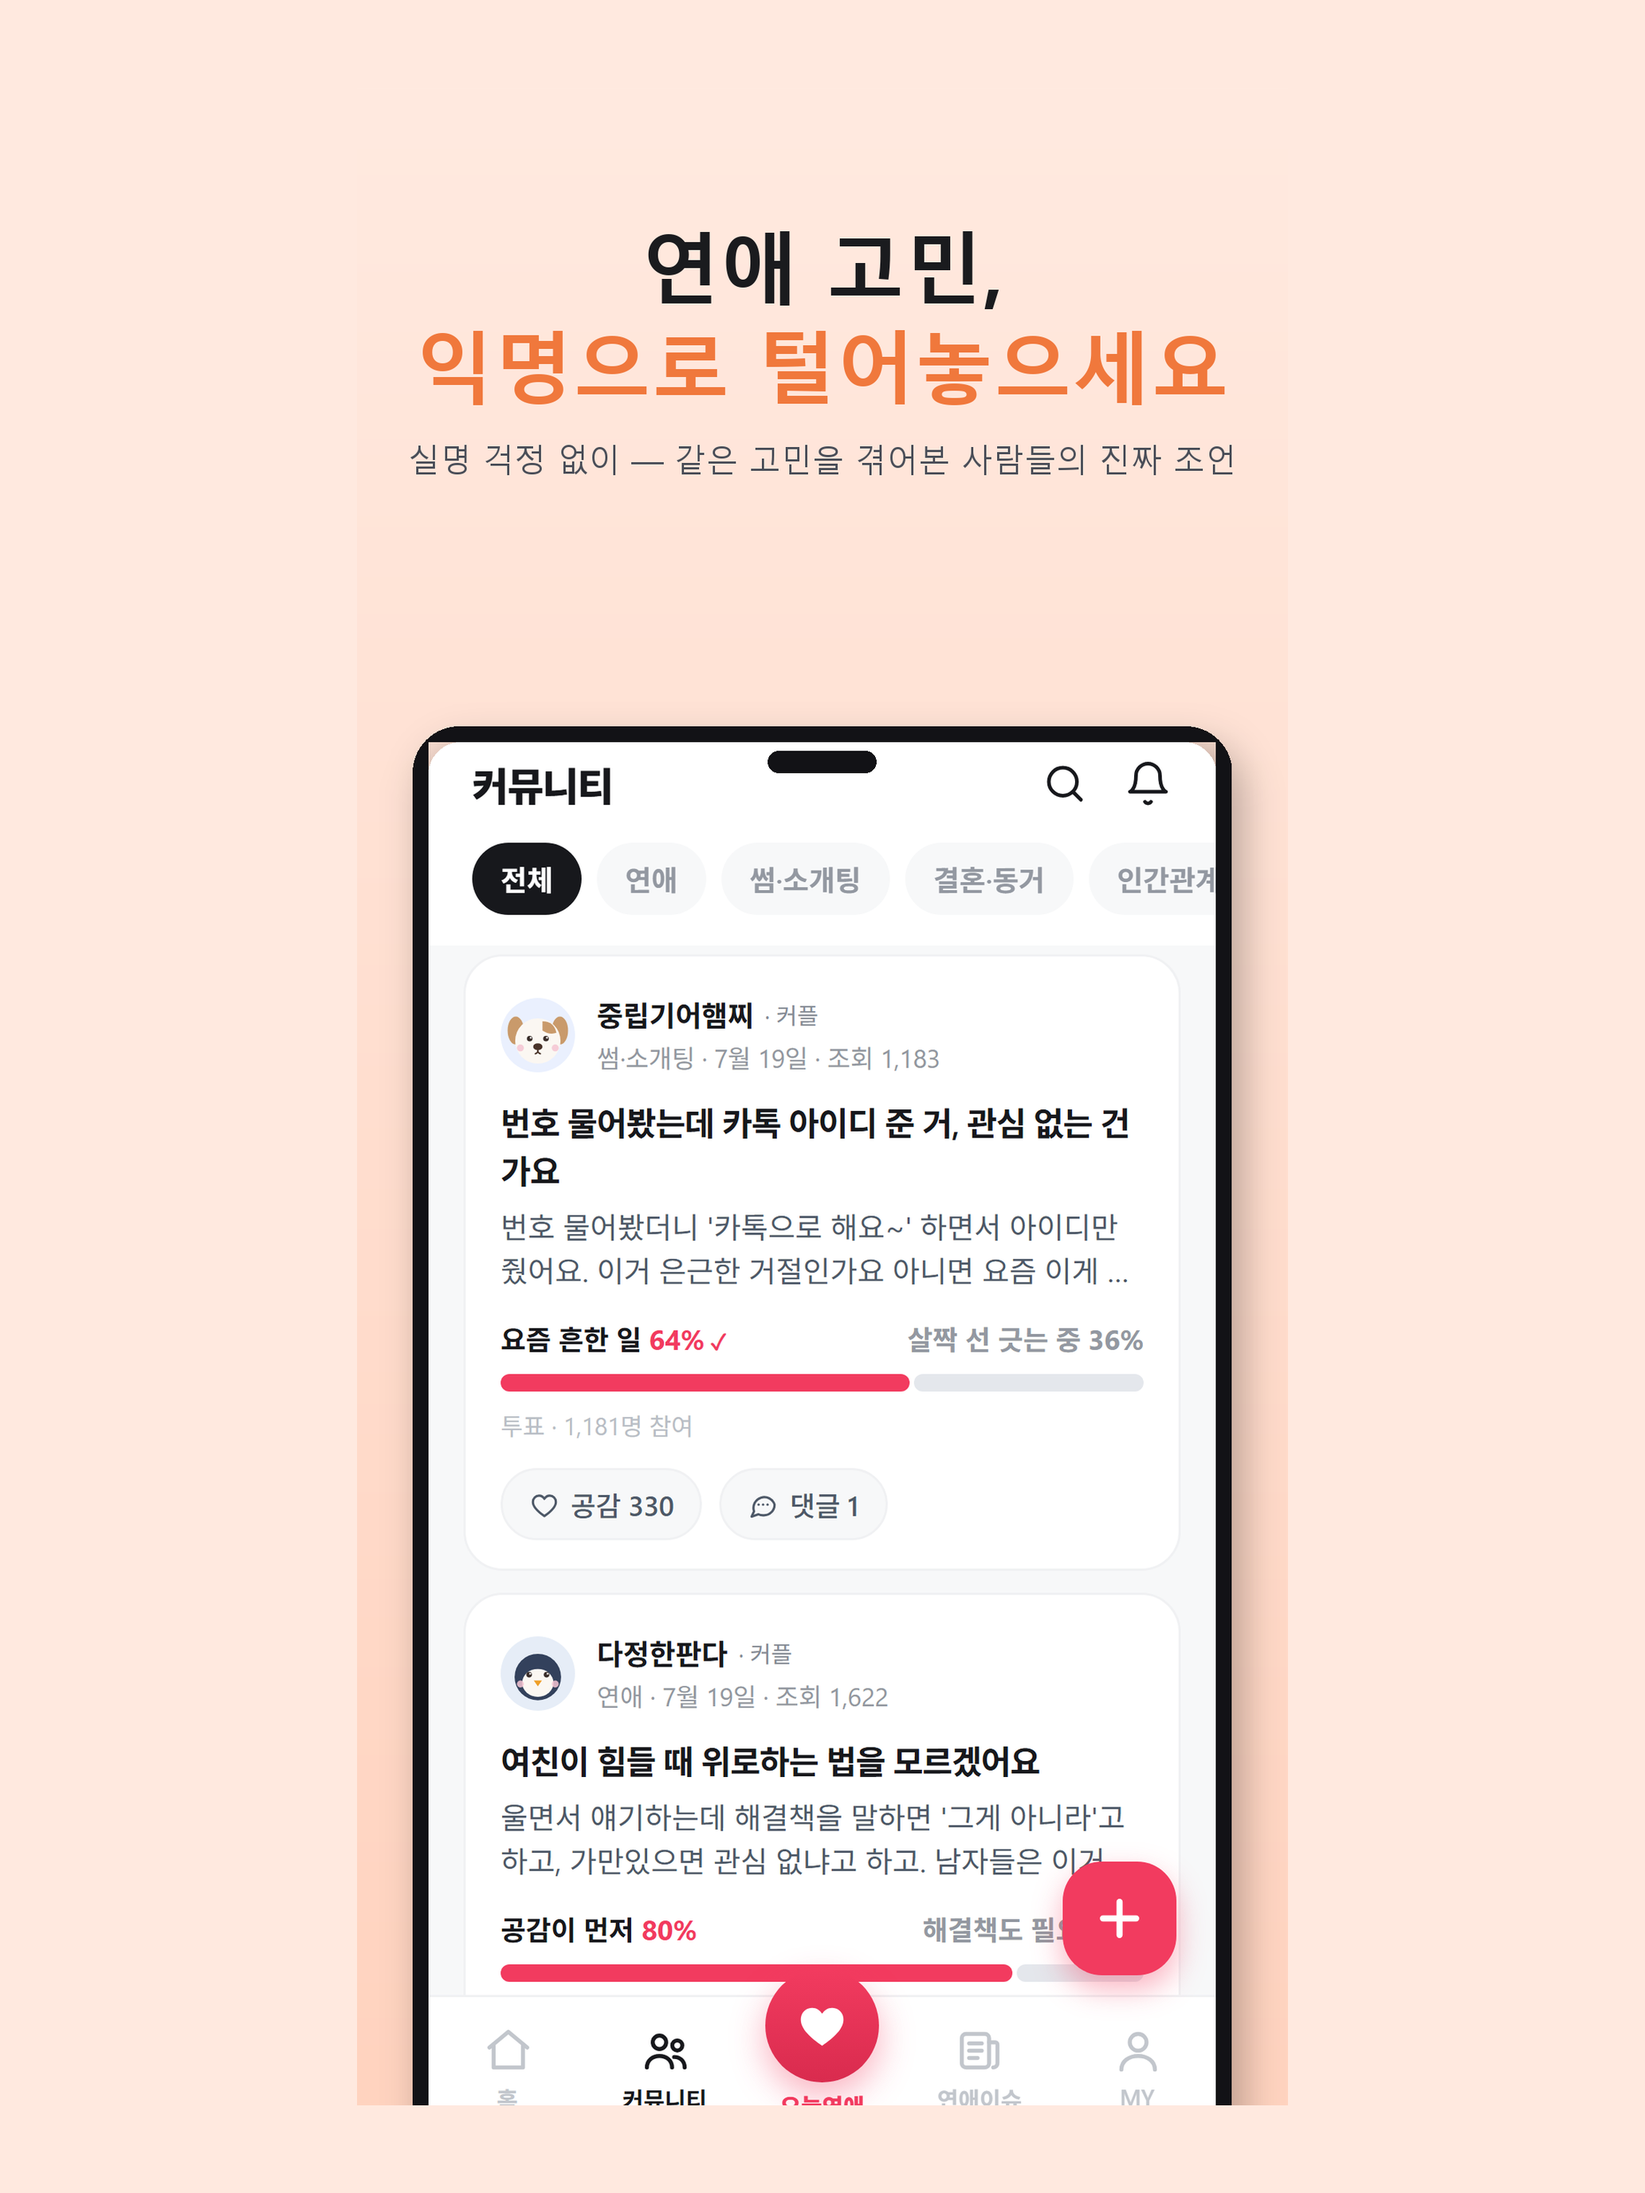
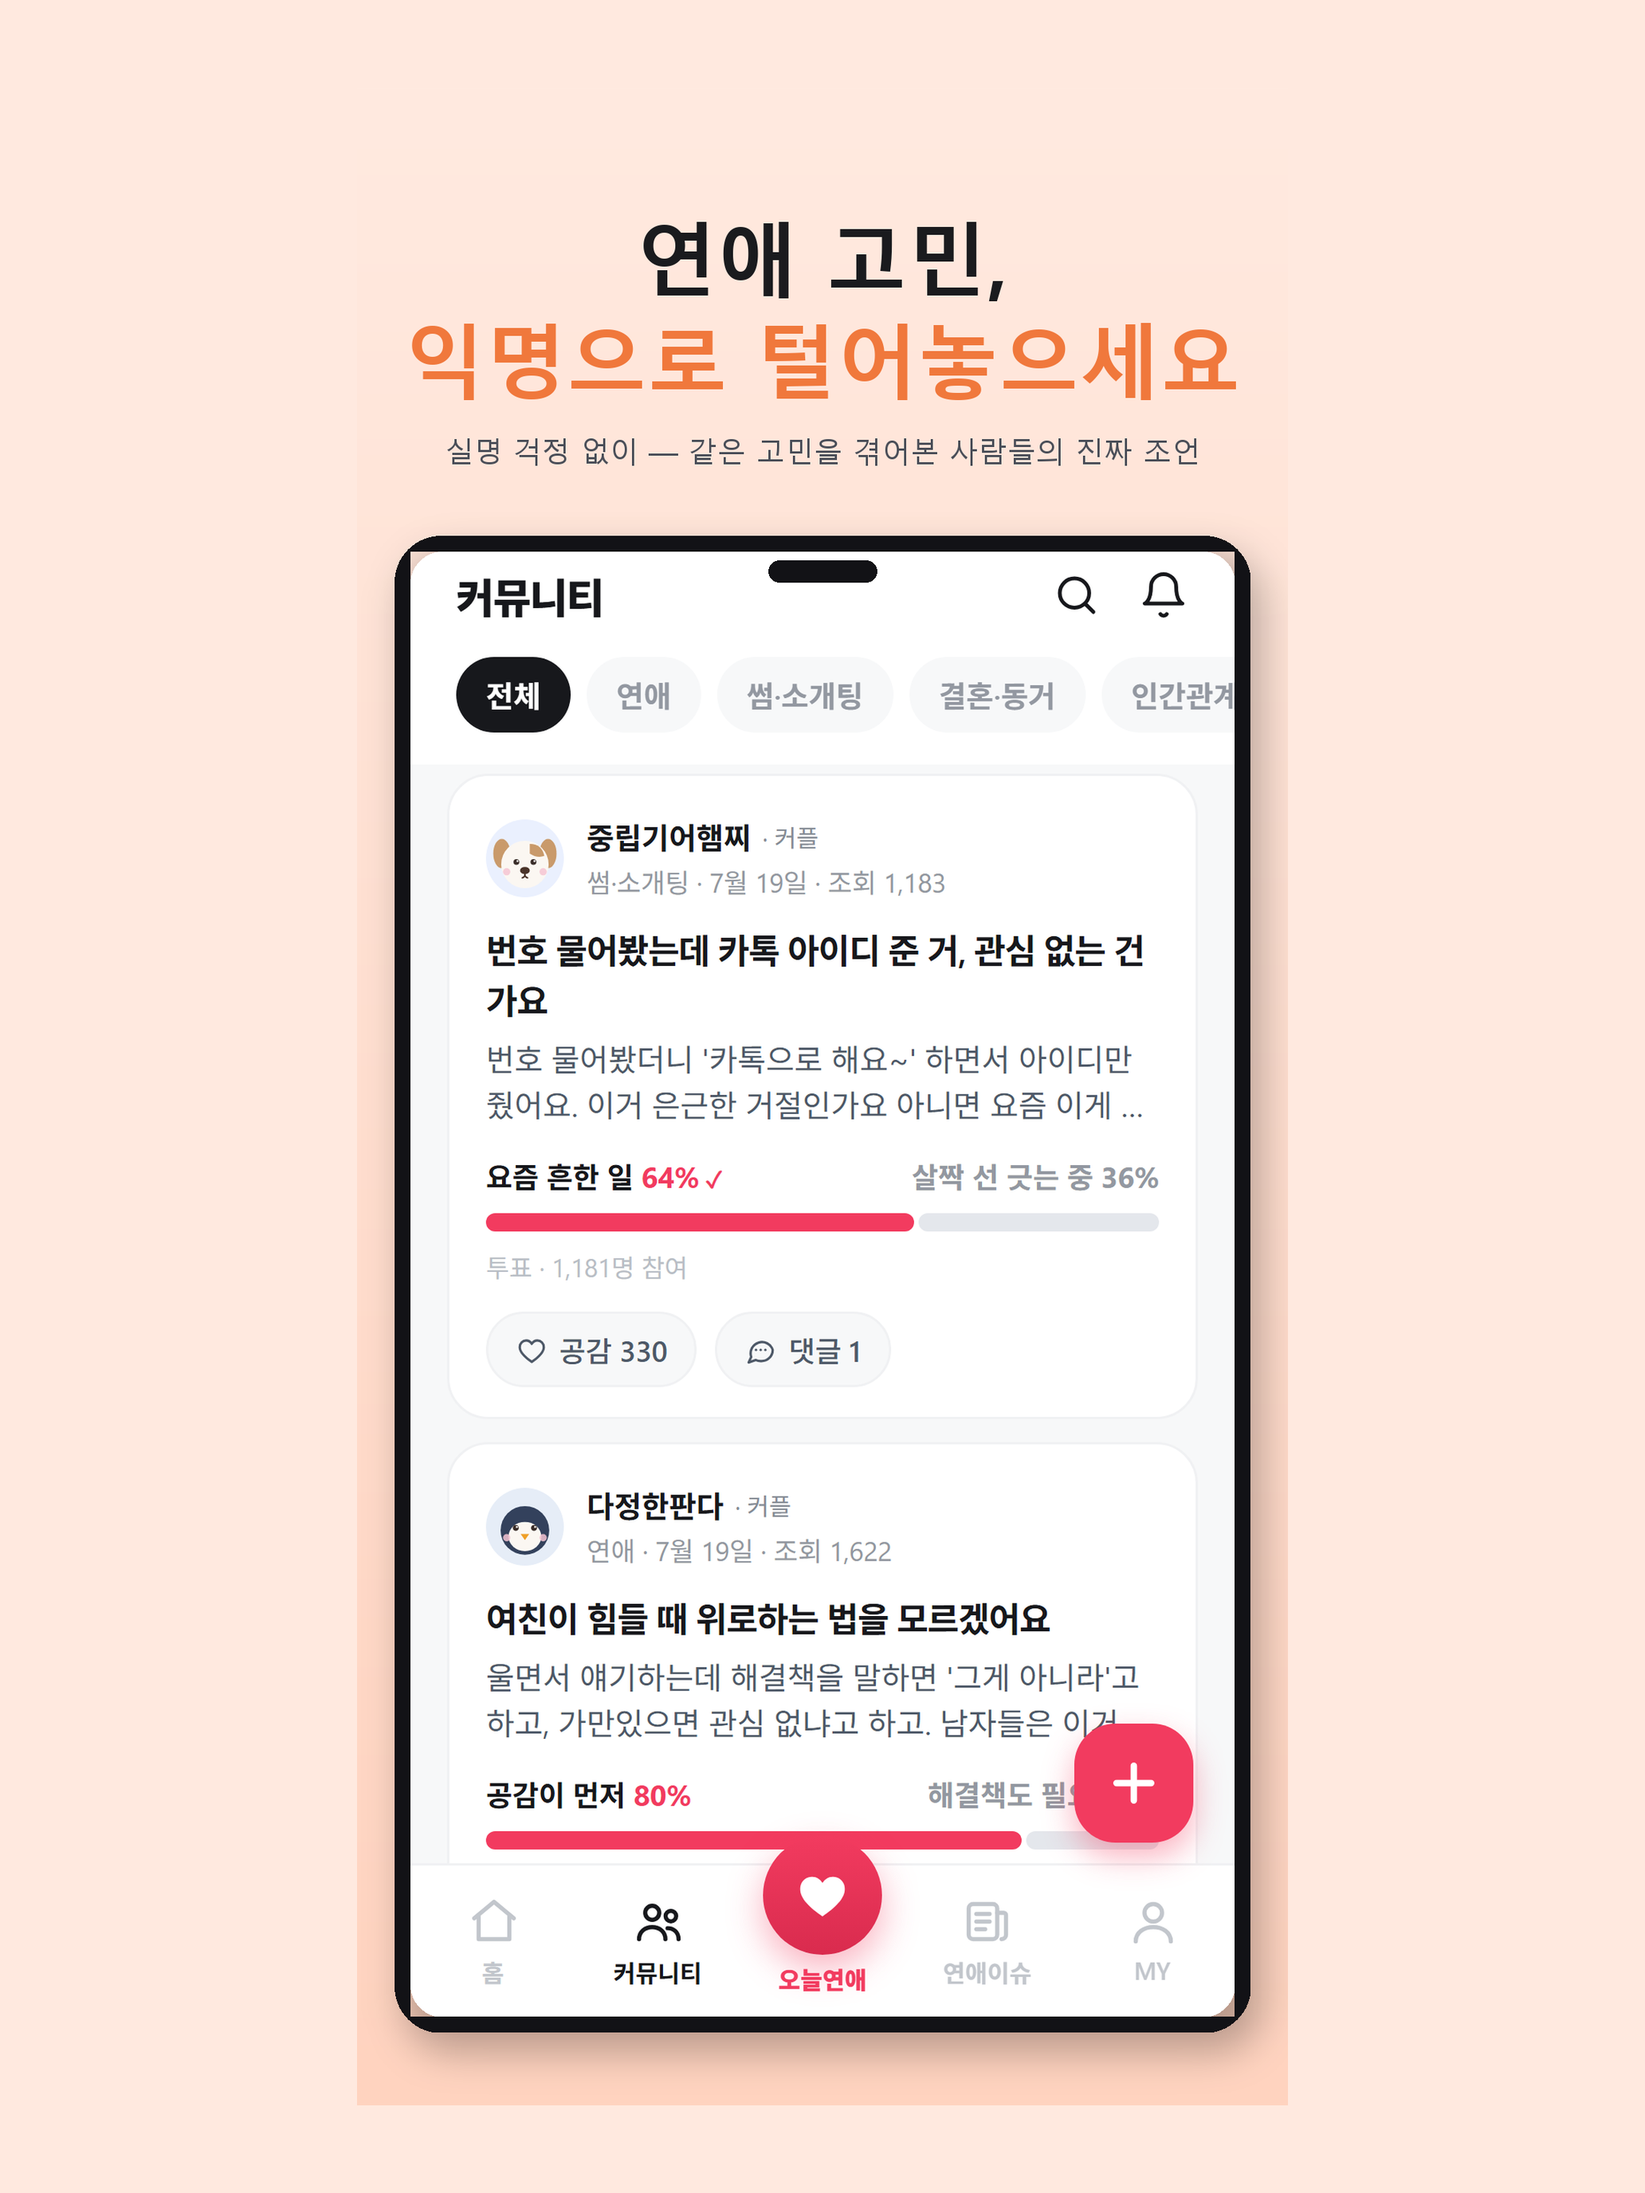
style(store): 마케팅 합성 v3 — 전 슬라이드 공통 폰트·고정 레이아웃(간격 통일, 하단 풀블리드)

Changed region(s): [[0.2171, 0.0938, 0.7752, 0.9688]]

diff --git a/app/store/make_marketing.py b/app/store/make_marketing.py
@@ -74,44 +74,34 @@ def phone_frame(shot_path, target_w):
     return frame
 
 
-def make(slide, idx):
+def make(slide, idx, f, fs, sf, sfs):
     shot, lines, sub, (top, bot), accent = slide
-    VS = H / 1920  # 세로 여백 스케일
+    VS = H / 1920
     canvas = vgrad(W, H, top, bot).convert("RGBA")
     d = ImageDraw.Draw(canvas)
 
-    def fit_font(path, size, texts, max_w):
-        while size > 20:
-            ft = ImageFont.truetype(path, size)
-            if all(d.textlength(t, font=ft) <= max_w for t in texts):
-                return ft, size
-            size -= 2
-        return ImageFont.truetype(path, size), size
-
-    # 헤드라인 — 가로 기준 크기 + 폭 자동 맞춤
-    f, fs = fit_font(BOLD, int(92 * W / 1080), lines, W - int(90 * W / 1080))
+    # 헤드라인 — 전 슬라이드 공통 크기(레이아웃 통일)
     line_h = int(fs * 1.26)
-    y = int(120 * VS)
+    y = int(110 * VS)
     for i, line in enumerate(lines):
         w = d.textlength(line, font=f)
         color = accent if i == len(lines) - 1 else INK
         d.text(((W - w) / 2, y), line, font=f, fill=color)
         y += line_h
-    # 서브카피 (설명 한 줄) — 폭 자동 맞춤
-    y += int(26 * VS)
-    sf, sfs = fit_font(REG, int(42 * W / 1080), [sub], W - int(80 * W / 1080))
+    y += int(24 * VS)
     sw_ = d.textlength(sub, font=sf)
     d.text(((W - sw_) / 2, y), sub, font=sf, fill=SUB)
-    y += int(sfs * 1.3) + int(40 * VS)
+    y += int(sfs * 1.3)
 
-    # 폰 목업 — 하단 앵커(아래로 50px 블리드), 폭은 상한 내에서 높이를 채우도록
-    bleed = int(50 * VS)
-    avail_h = H + bleed - (y + int(30 * VS))
-    scr_w_by_h = int((avail_h - 44) * 1080 / 1920)  # shot 1080x1920
-    target_w = min(int(0.88 * W), scr_w_by_h + 44)
+    # 폰 목업 — 고정 상단(y_end+간격), 하단 블리드까지 채움 (전 슬라이드 동일 위치·크기)
+    phone_top = y + int(64 * VS)
+    bleed = int(56 * VS)
+    frame_h_target = H + bleed - phone_top
+    scr_w_by_h = int((frame_h_target - 44) * 1080 / 1920)
+    target_w = min(int(0.92 * W), scr_w_by_h + 44)
     frame = phone_frame(os.path.join(SHOTS, shot), target_w=target_w)
     fx = (W - frame.width) // 2
-    fy = H + bleed - frame.height  # 하단 붙임 → 남는 공간은 위(서브카피와의 사이)로
+    fy = phone_top
     shadow = Image.new("RGBA", canvas.size, (0, 0, 0, 0))
     sd = ImageDraw.Draw(shadow)
     sd.rounded_rectangle([fx + 14, fy + 26, fx + frame.width + 14, fy + frame.height + 26], radius=64, fill=(0, 0, 0, 70))
@@ -125,5 +115,20 @@ def make(slide, idx):
 
 
 if __name__ == "__main__":
-    for i, s in enumerate(SLIDES, 1):
-        make(s, i)
+    # 공통 폰트: 가장 긴 헤드라인/서브카피 기준으로 한 번만 산정 → 전 슬라이드 동일 크기
+    probe = ImageDraw.Draw(Image.new("RGB", (W, H)))
+
+    def fit(path, size, texts, max_w):
+        while size > 20:
+            ft = ImageFont.truetype(path, size)
+            if all(probe.textlength(t, font=ft) <= max_w for t in texts):
+                return ft, size
+            size -= 2
+        return ImageFont.truetype(path, size), size
+
+    all_lines = [l for sl in SLIDES for l in sl[1]]
+    all_subs = [sl[2] for sl in SLIDES]
+    F, FS = fit(BOLD, int(96 * W / 1080), all_lines, W - int(90 * W / 1080))
+    SF, SFS = fit(REG, int(42 * W / 1080), all_subs, W - int(80 * W / 1080))
+    for i, sl in enumerate(SLIDES, 1):
+        make(sl, i, F, FS, SF, SFS)
